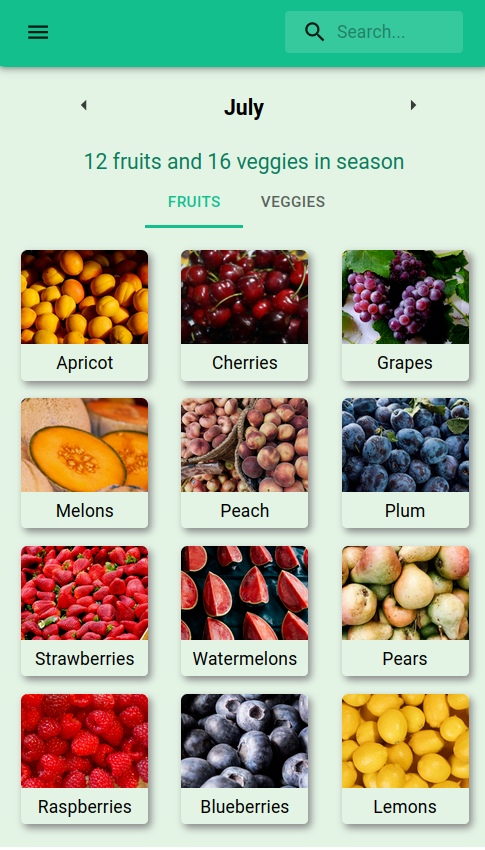
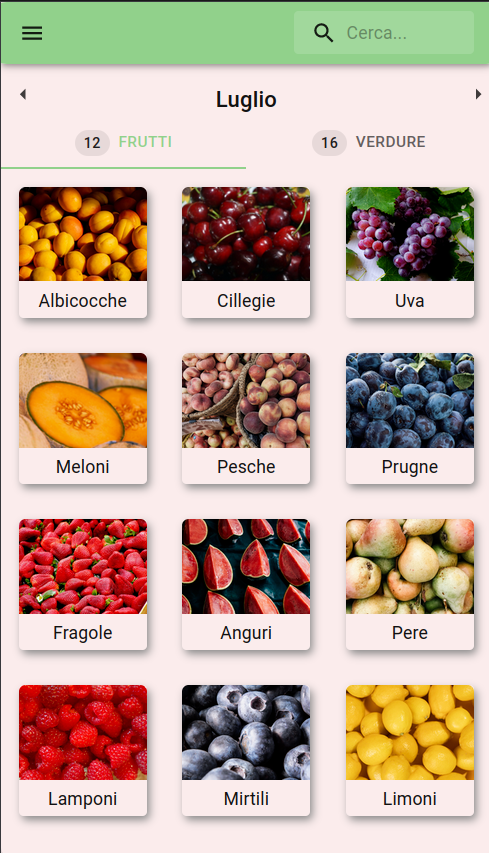
changed colors and chnaged print

diff --git a/index.html b/index.html
@@ -17,26 +17,26 @@
   <title>Seasonal Food App</title>
 </head>
 
-<body class="bg-purple-900 font-sans m-0 flex flex-col">
+<body class="bg-[#F2EDD7] font-sans m-0 flex flex-col text-[#393232]">
 
-  <header class="bg-purple-800 z-20 sticky top-0 flex justify-center items-center w-screen p-4 text-white">
+  <header class="bg-[#3A6351] z-20 sticky top-0 flex justify-center items-center w-screen p-4 text-white">
     <h3 class="font-display text-2xl md:text-4xl">Seasonal Food App</h3>
+    <!-- HAMBURGER MENU-->
     <input type="checkbox" id="overlay-input" class="absolute right-0 sm:-right-4"/>
        <label for="overlay-input" id="overlay-button"><span></span></label>
     <div id="overlay">
+      <h3 class="font-display text-2xl md:text-4xl text-center my-5">Seasonal Food App</h3>
       <ul>
-        <li><a href="#">about the project</a></li>
-        <li><a href="#">contribute</a></li>
-        <li><a href="#">Buy us a coffee</a></li>
-        <li><a href="#">Who are we?</a></li>
+        <li class="md:hidden"><a href="#about-the-project">about the project</a></li>
+        <li><a href="https://github.com/fuzue/seasonfood" target="_blank">contribute</a></li>
+        <!-- <li><a href="#">Buy us a coffee</a></li> -->
+        <li><a href="https://elenavolpato.me" target="_blank">about us</a></li>
       </ul>
     </div>
-    
-
   </header>
-
+  <!-- MAIN SECTION OF THE WEBSITE -->
   <main class="mt-4 w-full flex flex-col md:flex-row items-center justify-center md:gap-8">
-    <div class=" py-20 text-white h-full md:order-2 text-center md:text-left">
+    <div class=" py-20 text-[#3A6351] h-full md:order-2 text-center md:text-left">
       <div>
         <p class="mx-7 text-4xl md:text-6xl ">Find out when <br>
           it's best to buy <br>
@@ -53,13 +53,13 @@
       </div>
     </div>
     <div class="items-center z-10 px-2 md:order-1">
-      <img class="border-2 border-black" src="./assets/print-home.png" />
+      <img class="border-4 border-black  w-[60%] " src="./assets/phone-print.png" />
     </div>
   </main>
-  <!-- features -->
-  <div class=" md:flex gap-6 md:gap-24 w-full bg-slate-100 text-center text-gray-900 px-6 -mt-1  xl:px-56 pt-6 pb-8 ">
+  <!-- FEATURES -->
+  <div class=" md:flex gap-6 md:gap-24 w-full bg-[#E48257] text-[#393232] text-center px-6 -mt-3  xl:px-56 py-5 pt-6 pb-8 ">
     <div class="flex flex-col items-center xl:ml-36">
-      <img src="./assets/noun-rhino.svg" class="w-12 " />
+      <img src="./assets/noun-rhino.svg" class="w-12" />
       <h3 class="text-xl font-display">Monthly view</h3>
       <article class="">
         An easy to use app to check the seasonality of fruits and vegetables. You can check it on the way to he supermarket or when making your shopping list.
@@ -71,26 +71,25 @@
       <article class="">
         Discover if that fruit or veggie is in season this month by using the search bar, and if it isn't, you will se when it's best to buy it
       </article>
-   
   </div>
   <div class="flex flex-col items-center pt-6 md:pt-0 xl:mr-36">
     <img src="./assets/noun-rhino.svg" class="w-12" />
-    <h3 class="text-xl font-display">about the project </h3>
+    <h3 id="about-the-project" class="text-xl font-display">about the project </h3>
     <article >
       The idea came from a genuine need we had when we moved to another country. We didn't know what we would find in the supermarket.
     </article>
   </div>
 </div>
-  <!-- about us and contacts -->
+  <!-- ABOUT US AND CONTACT -->
   <div
-    class="text-center w-full text-slate-50  gap-6px-6  py-6">
+    class="text-center w-full bg-[#3A6351] text-slate-50 gap-6px-6  py-6">
     
     <div class="py-5">
       <div class="flex justify-center gap-2 items-center">
         <img src="./assets/github-mark-white.svg" class="w-6" />
         <h3 class=" font-display">contribute
           <span class="font-sans">on our
-            <a class="text-white" href="">github</a>
+            <a class="text-slate-50" href="">github</a>
           </span>
         </h3>
       </div>
@@ -98,45 +97,14 @@
       <div class="flex justify-center gap-2 items-center mt-2">
         <img src="./assets/noun-email-4218876.svg" class="w-6" />
         <h3 class="font-display">contact us:
-          <span class="font-sans">fuzue@fuzue.tech </span>
+          <span class="font-sans text-slate-50">fuzue@fuzue.tech </span>
         </h3>
 
       </div>
     </div>
+    <footer class=" text-sm text-center  w-full">made by <a class="text-slate-50" ref="#">fuzue.tech </a></footer>
   </div>
-
-
-  <footer class="text-slate-50 text-sm">made by <a class="" ref="#">fuzue.tech </a></footer>
-
-  <script type="module" src="/main.js"></script>
+   <script type="module" src="/main.js"></script>
 </body>
 
 </html>
-
-<!--  <button class="bg-transparent border-none right-4 relative group">
-          <div
-            class="relative flex overflow-hidden items-center justify-center rounded-full w-[50px] h-[50px] transform transition-all bg-transparent duration-200 ">
-            <div
-              class="flex flex-col justify-between w-[20px] h-[20px] transform transition-all duration-300 origin-center overflow-hidden">
-              <div
-                class="bg-white h-[2px] w-7 transform transition-all duration-300 origin-left group-focus:translate-x-10">
-              </div>
-              <div
-                class="bg-white h-[2px] w-7 rounded transform transition-all duration-300 group-focus:translate-x-10 delay-75">
-              </div>
-              <div
-                class="bg-white h-[2px] w-7 transform transition-all duration-300 origin-left group-focus:translate-x-10 delay-150">
-              </div>
-  
-              <div
-                class="absolute items-center justify-between transform transition-all duration-500 top-2.5 -translate-x-10 group-focus:translate-x-0 flex w-0 group-focus:w-12">
-                <div
-                  class="absolute bg-white h-[2px] w-5 transform transition-all duration-500 rotate-0 delay-300 group-focus:rotate-45">
-                </div>
-                <div
-                  class="absolute bg-white h-[2px] w-5 transform transition-all duration-500 -rotate-0 delay-300 group-focus:-rotate-45">
-                </div>
-              </div>
-            </div>
-          </div>
-        </button> -->

diff --git a/Menu.js b/Menu.js
@@ -1,0 +1,22 @@
+export function Menu() {
+  document.getElementById("menu");
+
+  // open/close the menu when the user clicks on the button
+  function toggleMenu() {
+    if (menu.classList.contains('hidden')) {
+      menu.classList.remove('hidden');
+    } else {
+      menu.classList.add('hidden');
+    }
+  }
+
+  // close the menu when the user clicks outside of it 
+  window.onclick = function (event) {
+    var dropdownWrapper = document.getElementById('dropdown-wrapper');
+    if (!dropdownWrapper.contains(event.target) && !menu.classList.contains('hidden')) {
+      menu.classList.add('hidden');
+    }
+  }
+}
+
+

diff --git a/style.css b/style.css
@@ -98,7 +98,8 @@ button:focus-visible {
   }
 }
 
-/* menu hamburger CSS */
+/* CSS  for hamburguer menu */
+
 @keyframes bugfix {
   from {
     padding: 0;
